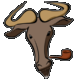
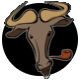
Log Horn v0.5 tweeks
added 'remember me' and 'lost password' forms

diff --git a/wp-content/plugins/loghorn/css/loghorn_enqueue_script.css b/wp-content/plugins/loghorn/css/loghorn_enqueue_script.css
@@ -74,7 +74,9 @@
 		#user_login {
 			/** Login text-box: username */
 			color: #00aaff ;
+			font-size: 24px;
 			background: ff0000;
+			opacity: 1.0 ;
 		}
 		
 				
@@ -82,9 +84,29 @@
 			/** Login text-box: password */
 			color: #00aaff ;
 			background: ff0000;
+			opacity: 1.0 ;
+		}
+		
+		#rememberme {
+			/** Login check-box: Remember Me */
+			color: #00aaff ;
+			width: 12px;
+			height: 12px;
+			background: ff0000;
+			-webkit-border-radius: 2px;
+			border: 2px solid #0d9ed9;
+			opacity: 1.0 ;
 		}
 		
 		#loginform { 
+			opacity: 0.85 ; 
+			background: #0a080f ;
+			border: 2px solid #0f9ed9;
+			border-color:#0000ff;
+			-webkit-border-radius: 15px;
+		}
+		
+		#lostpasswordform	{ 
 			opacity: 0.85 ; 
 			background: #0a080f ;
 			border: 2px solid #0f9ed9;

diff --git a/wp-content/plugins/loghorn/includes/class-log-horn-display.php b/wp-content/plugins/loghorn/includes/class-log-horn-display.php
@@ -127,10 +127,10 @@ if  ( ! class_exists ( 'Log_Horn_Display' )  )  :
 			//fetch the database to get the logo filename as set by the user and return the result
 			
 			self::$loghorn_custom_logo=
-			get_option('loghorn_custom_logo' )
+			#get_option('loghorn_custom_logo' )
 			#'OPEN_Up_logo_green_180x80.png'				// Debug info
 			#'Bull_GraphicMama_team_80x80.png'				// Debug info
-			#'gnu_80x80.png'	//Default					// Debug info
+			'gnu_80x80.png'	//Default					// Debug info
 			;
 			// echo "loghorn_custom_logo: ".self::$loghorn_custom_logo ; // debug info
 		}
